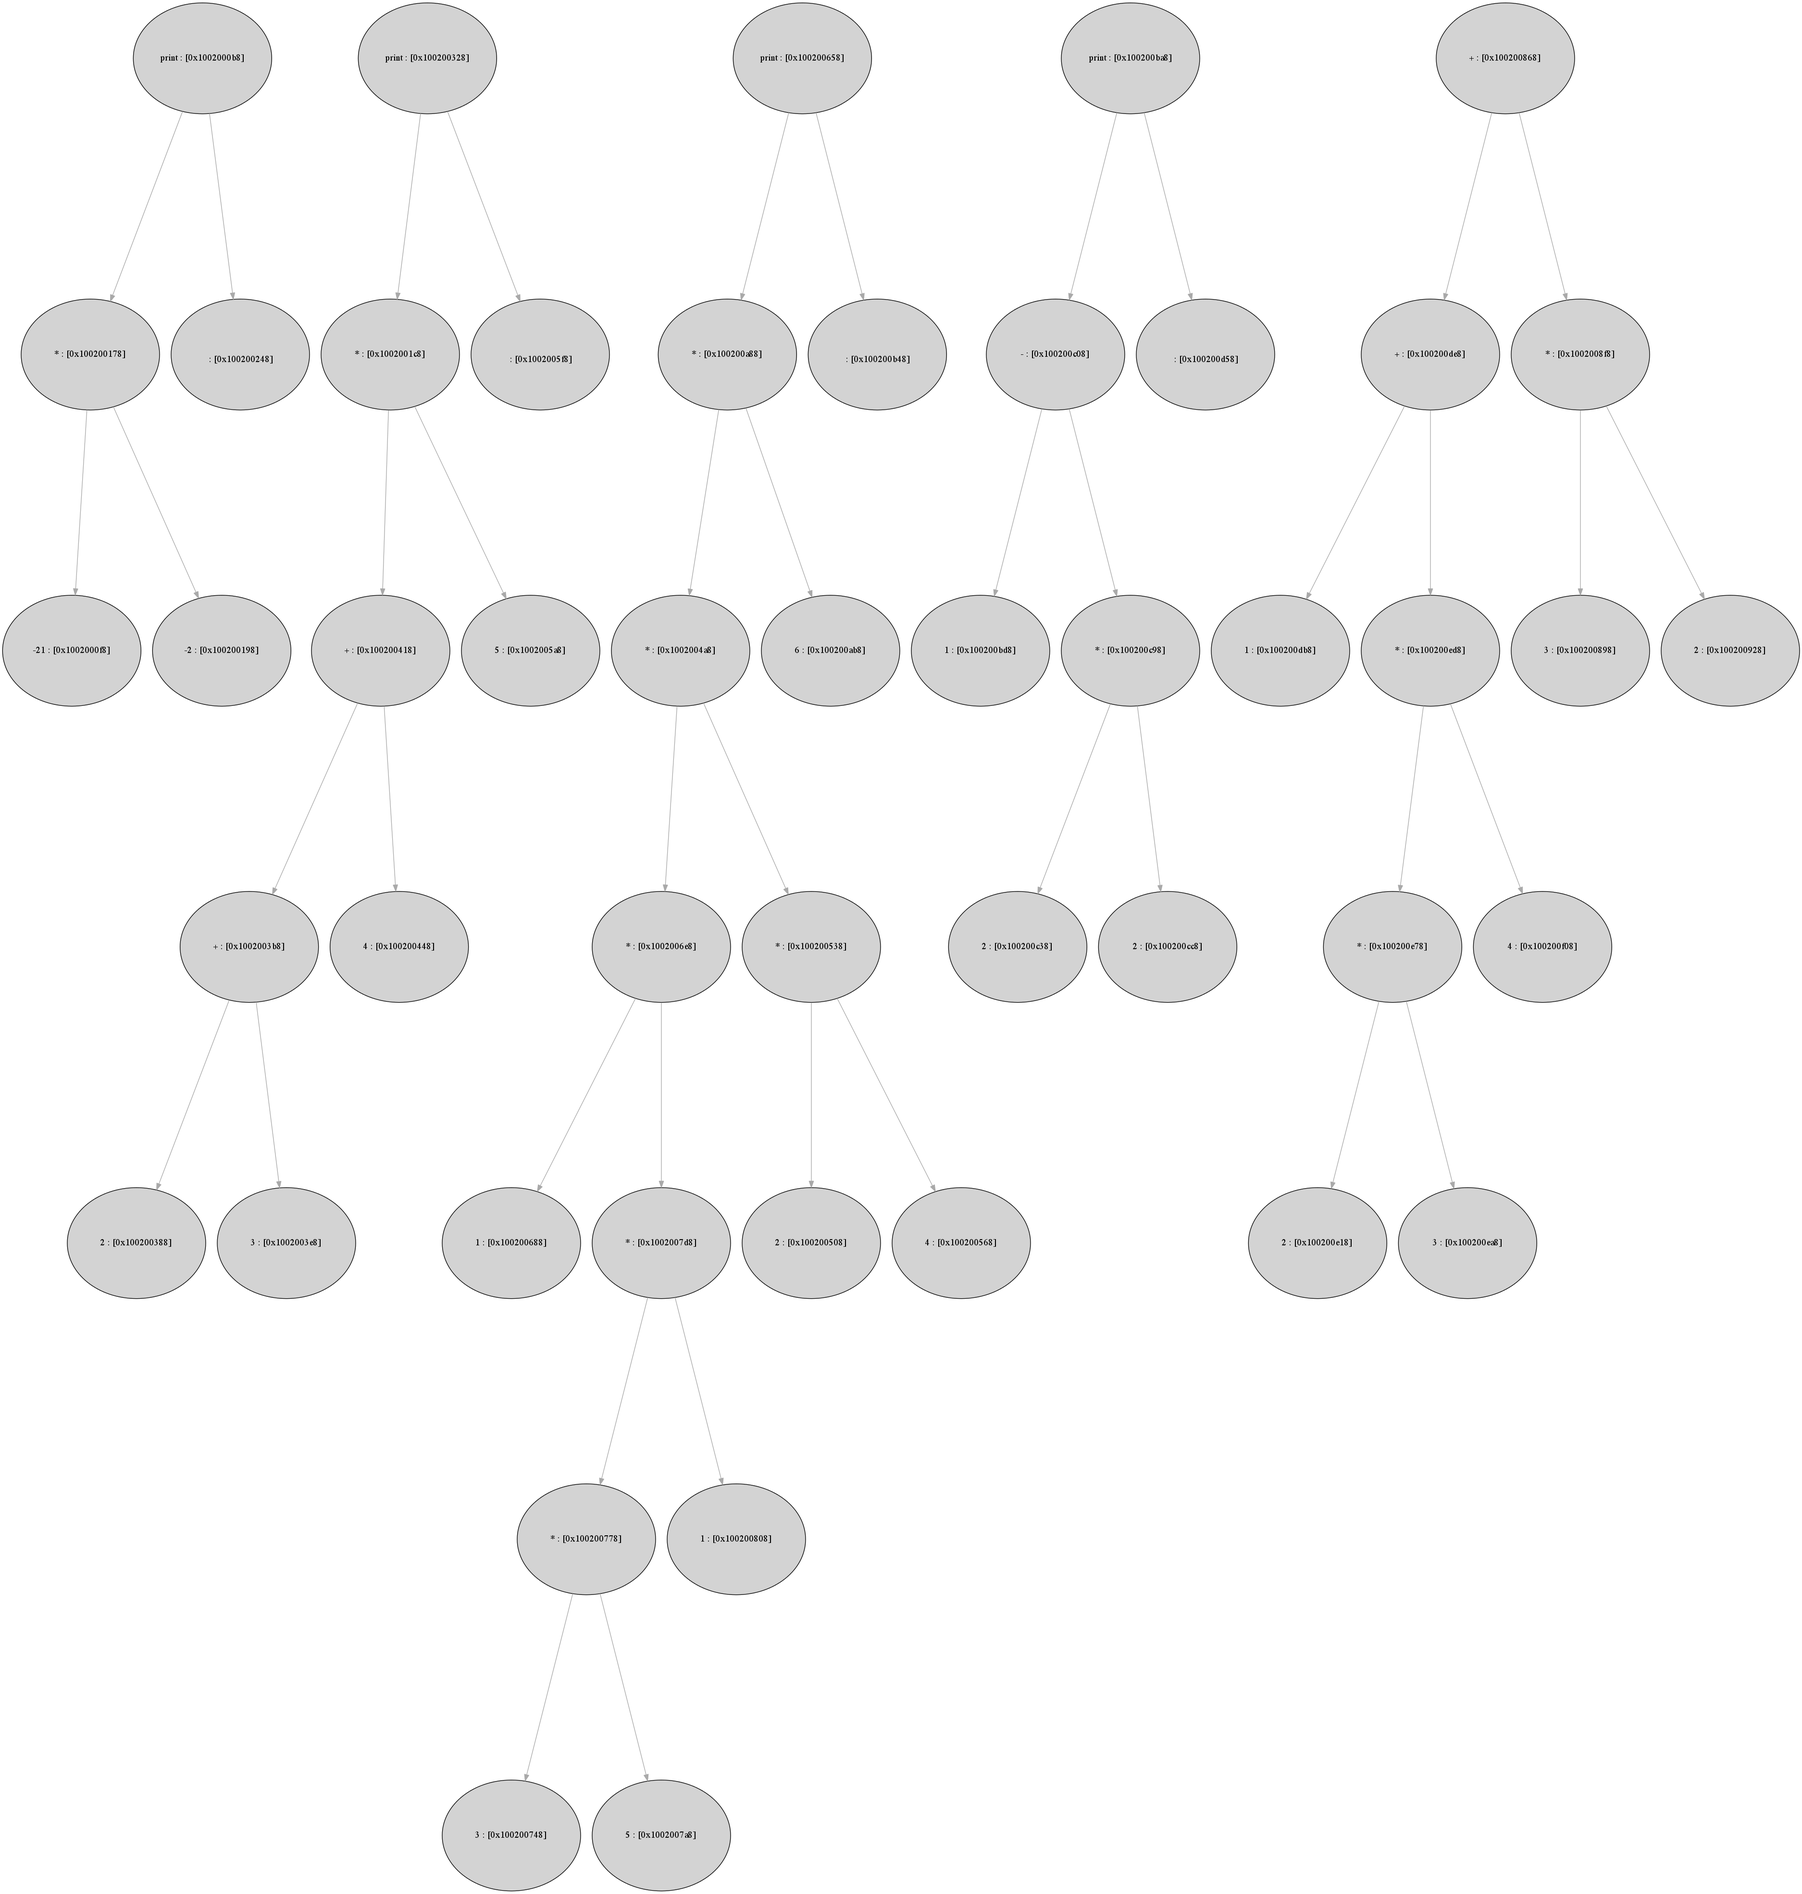
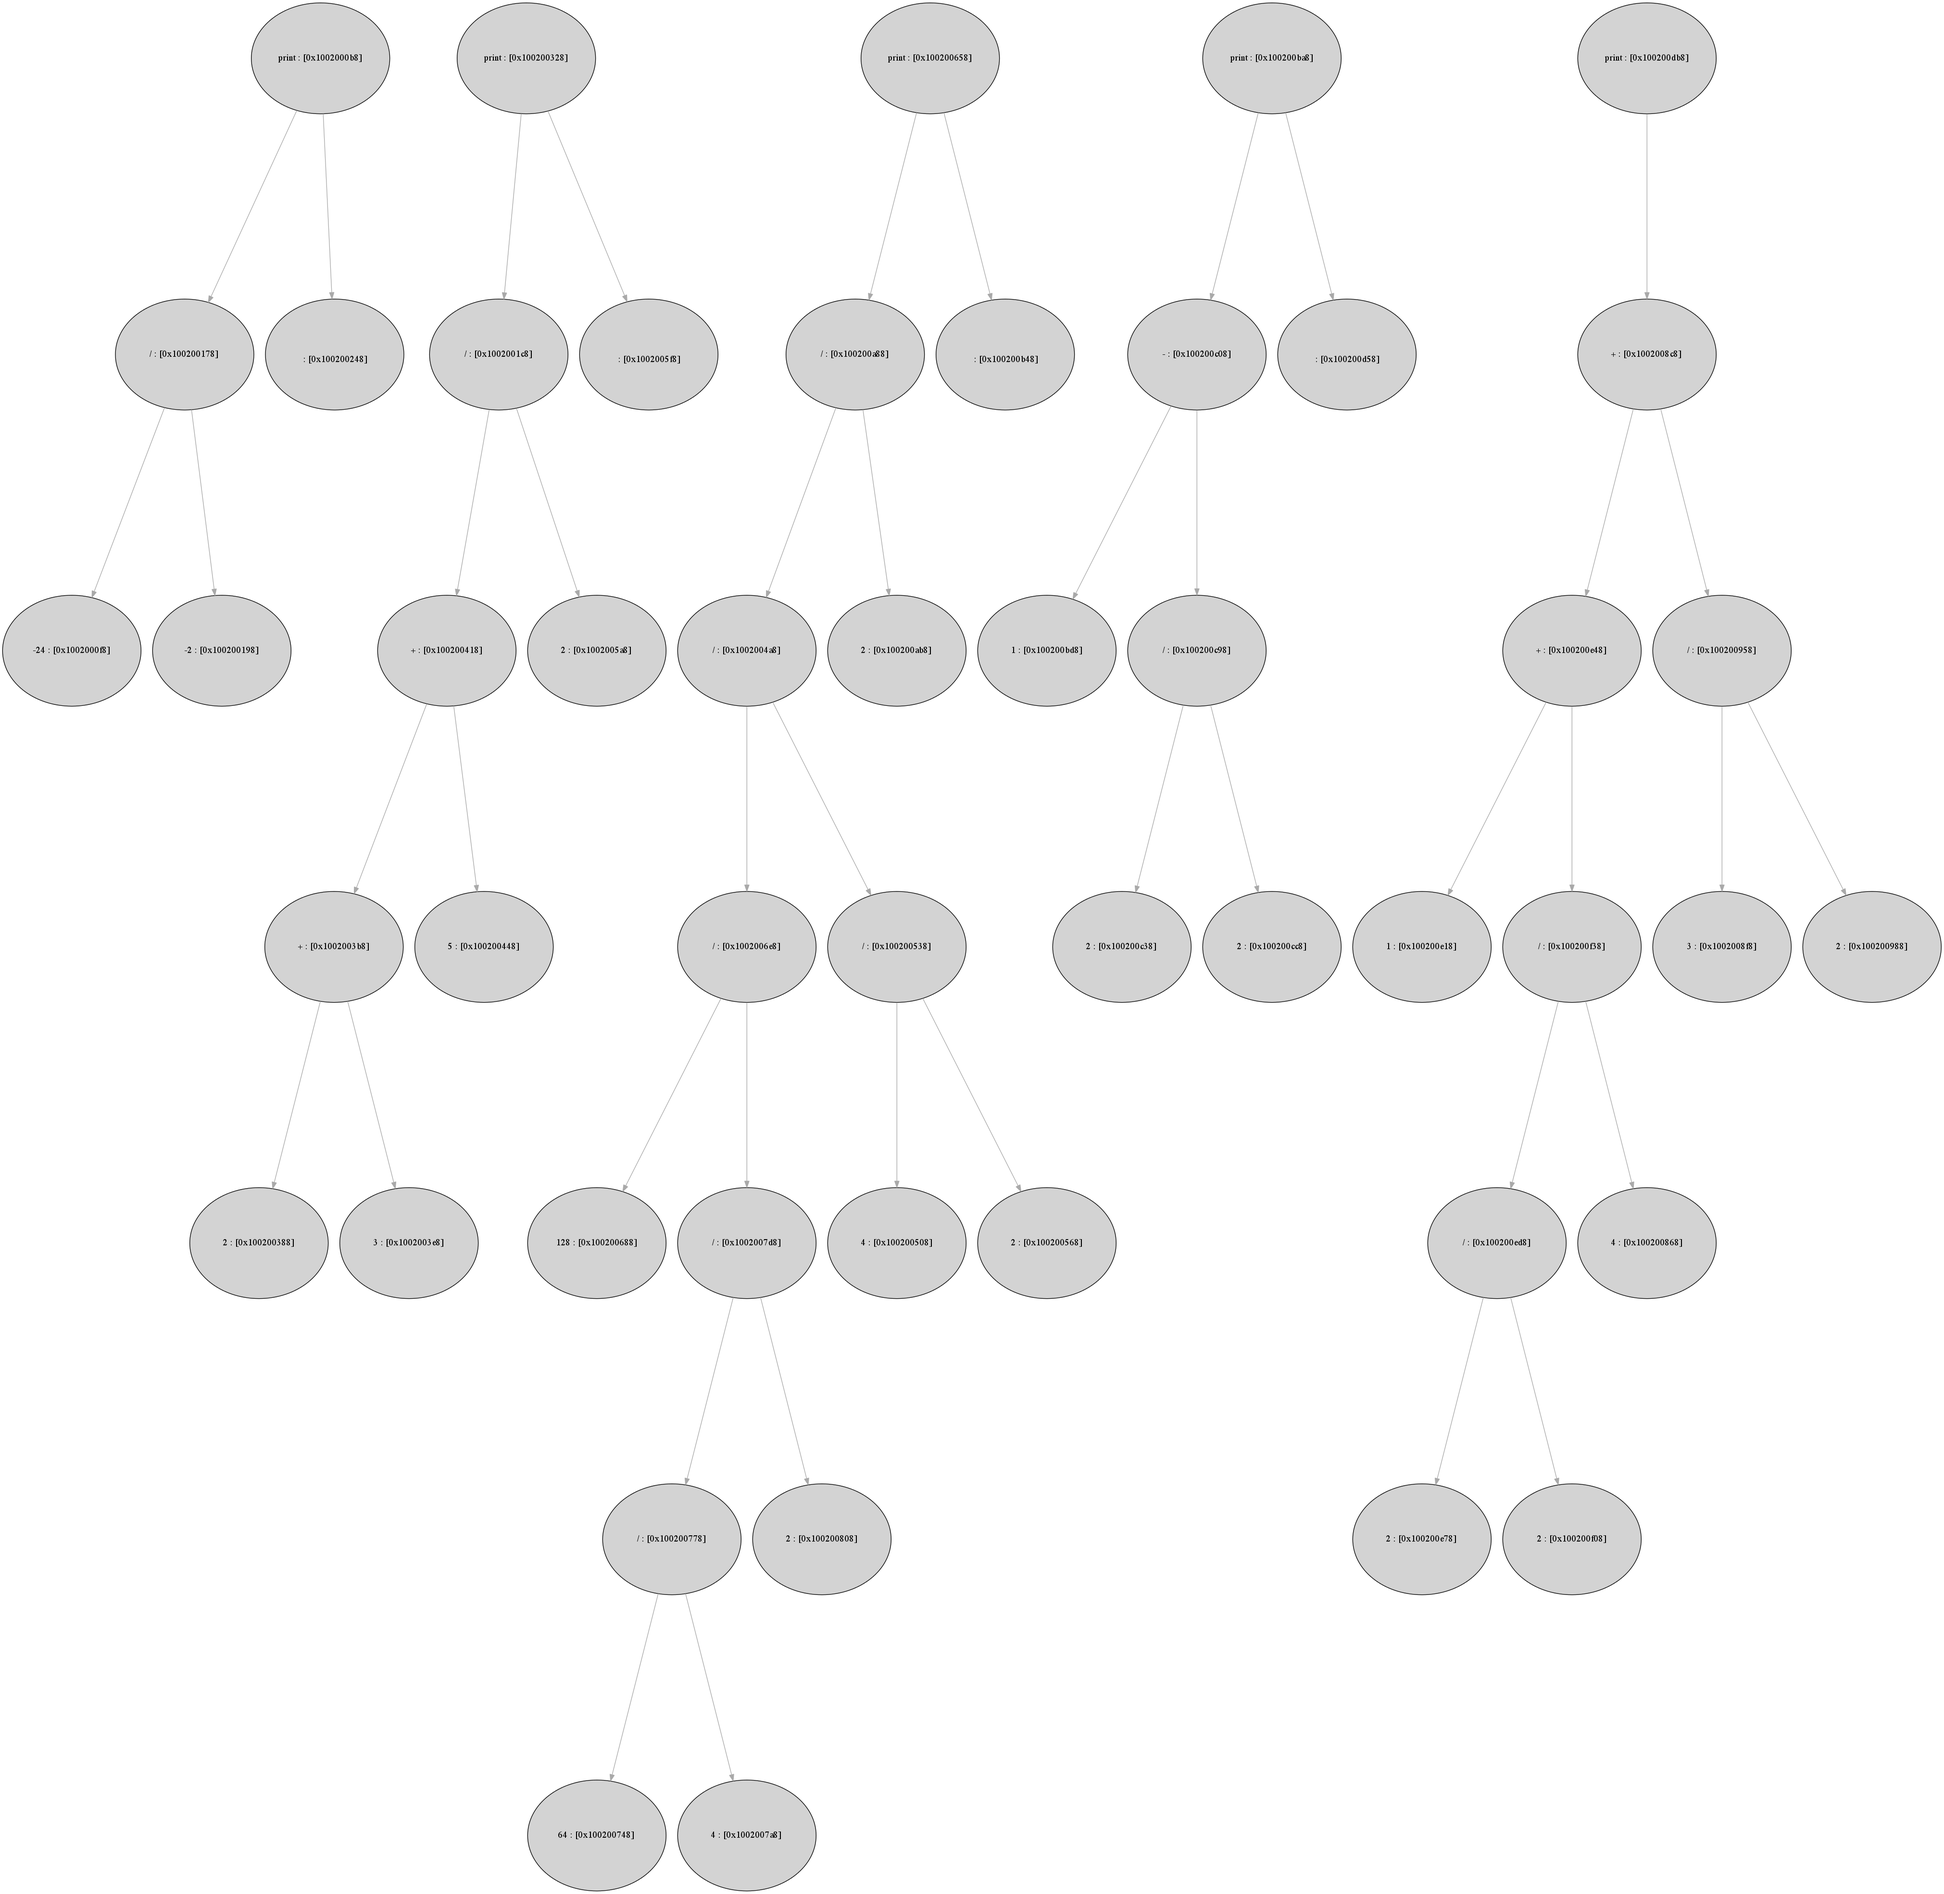
supported div operation

diff --git a/src/token.cpp b/src/token.cpp
@@ -19,7 +19,7 @@ vector<Token *> *GPerlTokenizer::tokenize(char *script)
 	vector<Token*> *tokens = new vector<Token *>();
 	bool isStringStarted = false;
 	bool escapeFlag = false;
-	bool mulOperationFlag = false;
+	bool mdOperationFlag = false;/*multi or div operation flag*/
 	size_t script_size = strlen(script) + 1;
 	char num_buffer[2] = {0};
 	while (script[i] != EOL) {
@@ -66,7 +66,7 @@ vector<Token *> *GPerlTokenizer::tokenize(char *script)
 			token_idx++;
 			escapeFlag = false;
 			break;
-		case '*': {
+		case '*': case '/' : {
 			char tmp[2] = {0};
 			if (isStringStarted) {
 				token[token_idx] = script[i];
@@ -81,18 +81,18 @@ vector<Token *> *GPerlTokenizer::tokenize(char *script)
 					DBG_P("token = [(]");
 					tmp[0] = '(';
 					tokens->push_back(new Token(string(tmp)));
-					mulOperationFlag = true;//to insert RIGHT CURLY BRACE
+					mdOperationFlag = true;//to insert RIGHT CURLY BRACE
 				}
 				tokens->push_back(new Token(string(token)));
 				memset(token, 0, MAX_TOKEN_SIZE);
-			} else if (!mulOperationFlag && atoi(cstr(tokens->back()->data)) != 0) {
+			} else if (!mdOperationFlag && atoi(cstr(tokens->back()->data)) != 0) {
 				//----previous token is number---
 				//previous token is white space
 				//insert LEFT CURLY BRACE
 				DBG_P("token = [(]");
 				tmp[0] = '(';
 				tokens->insert(tokens->end()-1, new Token(string(tmp)));
-				mulOperationFlag = true;//to insert RIGHT CURLY BRACE
+				mdOperationFlag = true;//to insert RIGHT CURLY BRACE
 			}
 			fprintf(stderr, "token = [%c]\n", script[i]);
 			tmp[0] = script[i];
@@ -126,13 +126,13 @@ vector<Token *> *GPerlTokenizer::tokenize(char *script)
 				memset(token, 0, MAX_TOKEN_SIZE);
 			}
 			char tmp[2] = {0};
-			if (mulOperationFlag &&
+			if (mdOperationFlag &&
 				(script[i] == ',' || script[i] == '+' || script[i] == '-' || script[i] == ';')) {
 				//insert RIGHT CURLY BRACE
 				DBG_P("token = [)]");
 				tmp[0] = ')';
 				tokens->push_back(new Token(string(tmp)));
-				mulOperationFlag = false;
+				mdOperationFlag = false;
 			}
 			fprintf(stderr, "token = [%c]\n", script[i]);
 			tmp[0] = script[i];
@@ -310,6 +310,9 @@ void GPerlTokenizer::annotateTokens(vector<Token *> *tokens)
 			t->type = Operator;
 			cur_type = Operator;
 		} else if (t->data == "*") {
+			t->type = Operator;
+			cur_type = Operator;
+		} else if (t->data == "/") {
 			t->type = Operator;
 			cur_type = Operator;
 		} else if (cur_type == VarDecl && t->data.find("$") != -1) {

diff --git a/src/vm.cpp b/src/vm.cpp
@@ -35,7 +35,7 @@ int GPerlVirtualMachine::run(GPerlVirtualMachineCode *codes)
 	string outbuf = "";
 	static void *jmp_table[] = {
 		&&L(OPMOV), &&L(OPiMOV), &&L(OPsMOV), &&L(OPADD), &&L(OPiADD),
-		&&L(OPSUB), &&L(OPiSUB), &&L(OPMUL), &&L(OPiMUL),
+		&&L(OPSUB), &&L(OPiSUB), &&L(OPMUL), &&L(OPiMUL), &&L(OPDIV), &&L(OPiDIV),
 		&&L(OPRET), &&L(OPTHCODE), &&L(OPNOP),
 		&&L(OPiWRITE), &&L(OPsWRITE), &&L(OPPRINT), /*&&L(OPSUB), &&L(OPMUL), &&L(OPDIV),
 		&&L(OPCALL), &&L(OPJMP), &&L(OPCMP), &&L(OPPOP), &&L(OPPUSH),
@@ -96,6 +96,18 @@ int GPerlVirtualMachine::run(GPerlVirtualMachineCode *codes)
 	CASE(OPiMUL) {
 		DBG_P("OPiMUL");
 		reg.idata[pc->dst] *= reg.idata[pc->src];
+		pc++;
+		GOTO_NEXTOP();
+	}
+	CASE(OPDIV) {
+		DBG_P("OPDIV");
+		reg.idata[pc->dst] /= reg.idata[pc->src];
+		pc++;
+		GOTO_NEXTOP();
+	}
+	CASE(OPiDIV) {
+		DBG_P("OPiDIV");
+		reg.idata[pc->dst] /= reg.idata[pc->src];
 		pc++;
 		GOTO_NEXTOP();
 	}

diff --git a/src/compiler.cpp b/src/compiler.cpp
@@ -153,6 +153,19 @@ GPerlVirtualMachineCode *GPerlCompiler::createVMCode(GPerlCell *c)
 		code->dst = dst - 1;
 		code->src = dst;
 		break;
+	case Div:
+		dst--;
+		switch (reg_type[dst - 1]) {
+		case Int:
+			code->op = OPiDIV;
+			break;
+		default:
+			code->op = OPDIV;
+			break;
+		}
+		code->dst = dst - 1;
+		code->src = dst;
+		break;
 	case PrintDecl:
 		code->op = OPPRINT;
 		code->dst = 0;
@@ -230,6 +243,12 @@ void GPerlCompiler::dumpVMCode(GPerlVirtualMachineCode *code)
 		break;
 	case OPiMUL:
 		DBG_P("L[%d] : OPiMUL [%d], [%d]", code->code_num, code->dst, code->src);
+		break;
+	case OPDIV:
+		DBG_P("L[%d] : OPDIV [%d], [%d]", code->code_num, code->dst, code->src);
+		break;
+	case OPiDIV:
+		DBG_P("L[%d] : OPiDIV [%d], [%d]", code->code_num, code->dst, code->src);
 		break;
 	case OPRET:
 		DBG_P("L[%d] : OPRET [%d], [%d]", code->code_num, code->dst, code->src);

diff --git a/src/parse.cpp b/src/parse.cpp
@@ -247,6 +247,9 @@ GPerlAST *GPerlParser::parse(vector<Token *> *tokens)
 			} else if (t->data == "*") {
 				op = new GPerlCell(Mul);
 				op->rawstr = t->data;
+			} else if (t->data == "/") {
+				op = new GPerlCell(Div);
+				op->rawstr = t->data;
 			}
 			//fprintf(stderr, "op = [%p]\n", op);
 			block->parent = op;

diff --git a/include/gperl.hpp b/include/gperl.hpp
@@ -26,6 +26,7 @@ typedef enum {
 	Add,
 	Sub,
 	Mul,
+	Div,
 	FunctionDecl,
 	FieldDecl,
 	TypeRef,
@@ -57,6 +58,8 @@ typedef enum {
 	OPiSUB,
 	OPMUL,
 	OPiMUL,
+	OPDIV,
+	OPiDIV,
 	OPRET,
 	OPTHCODE,
 	OPNOP,
